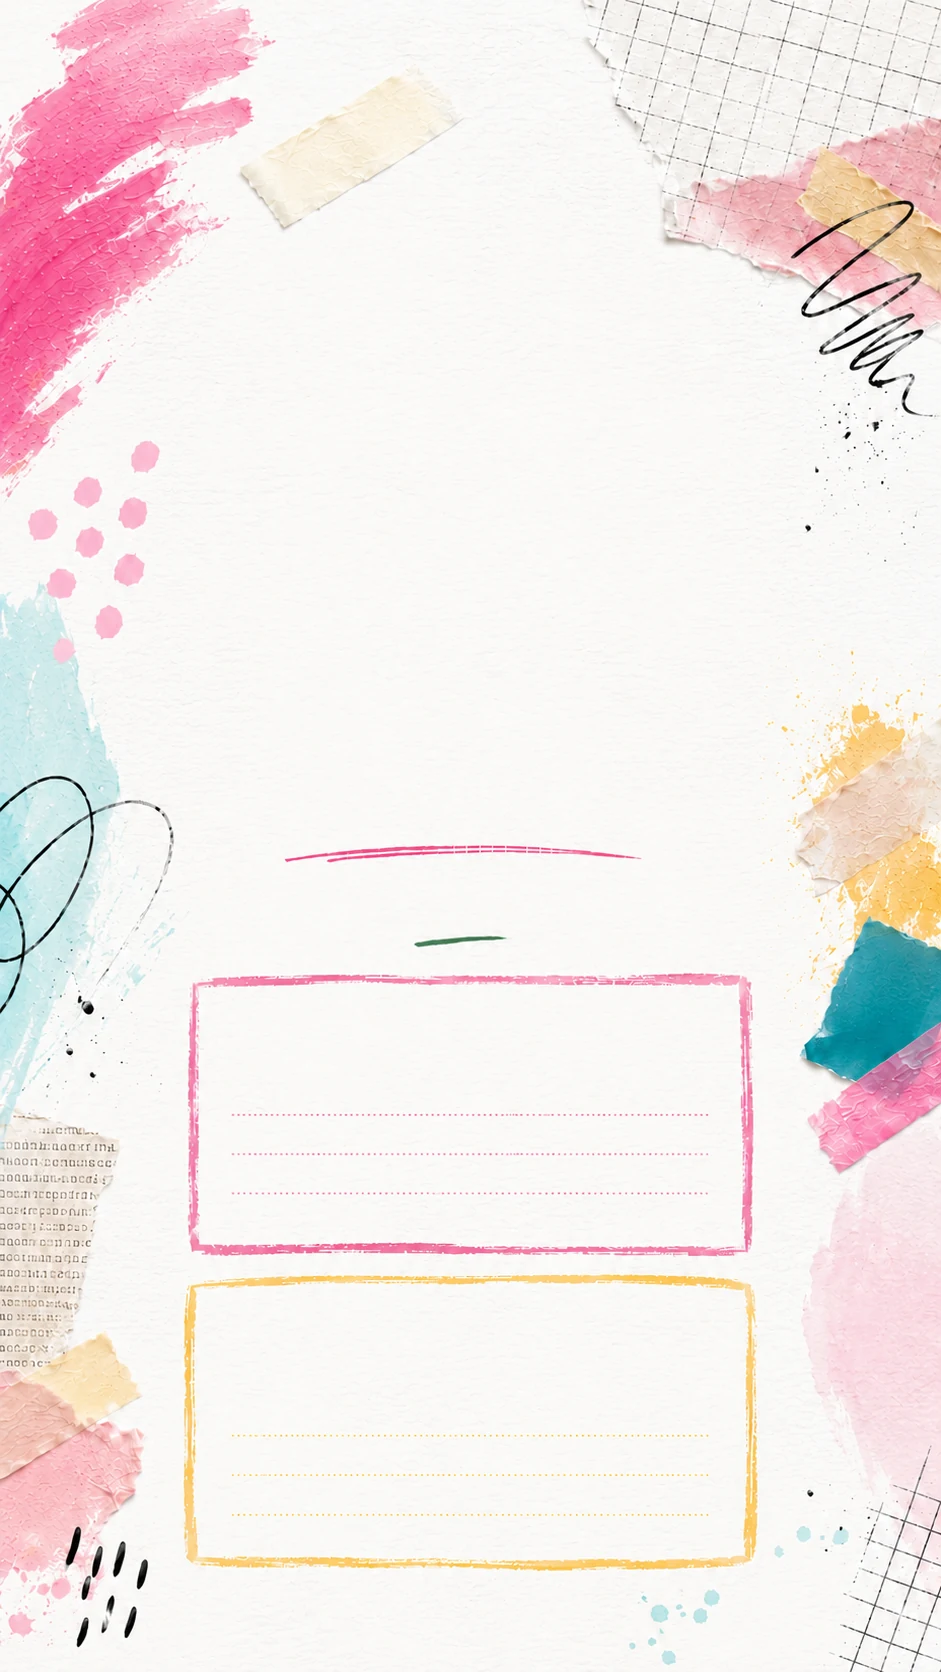
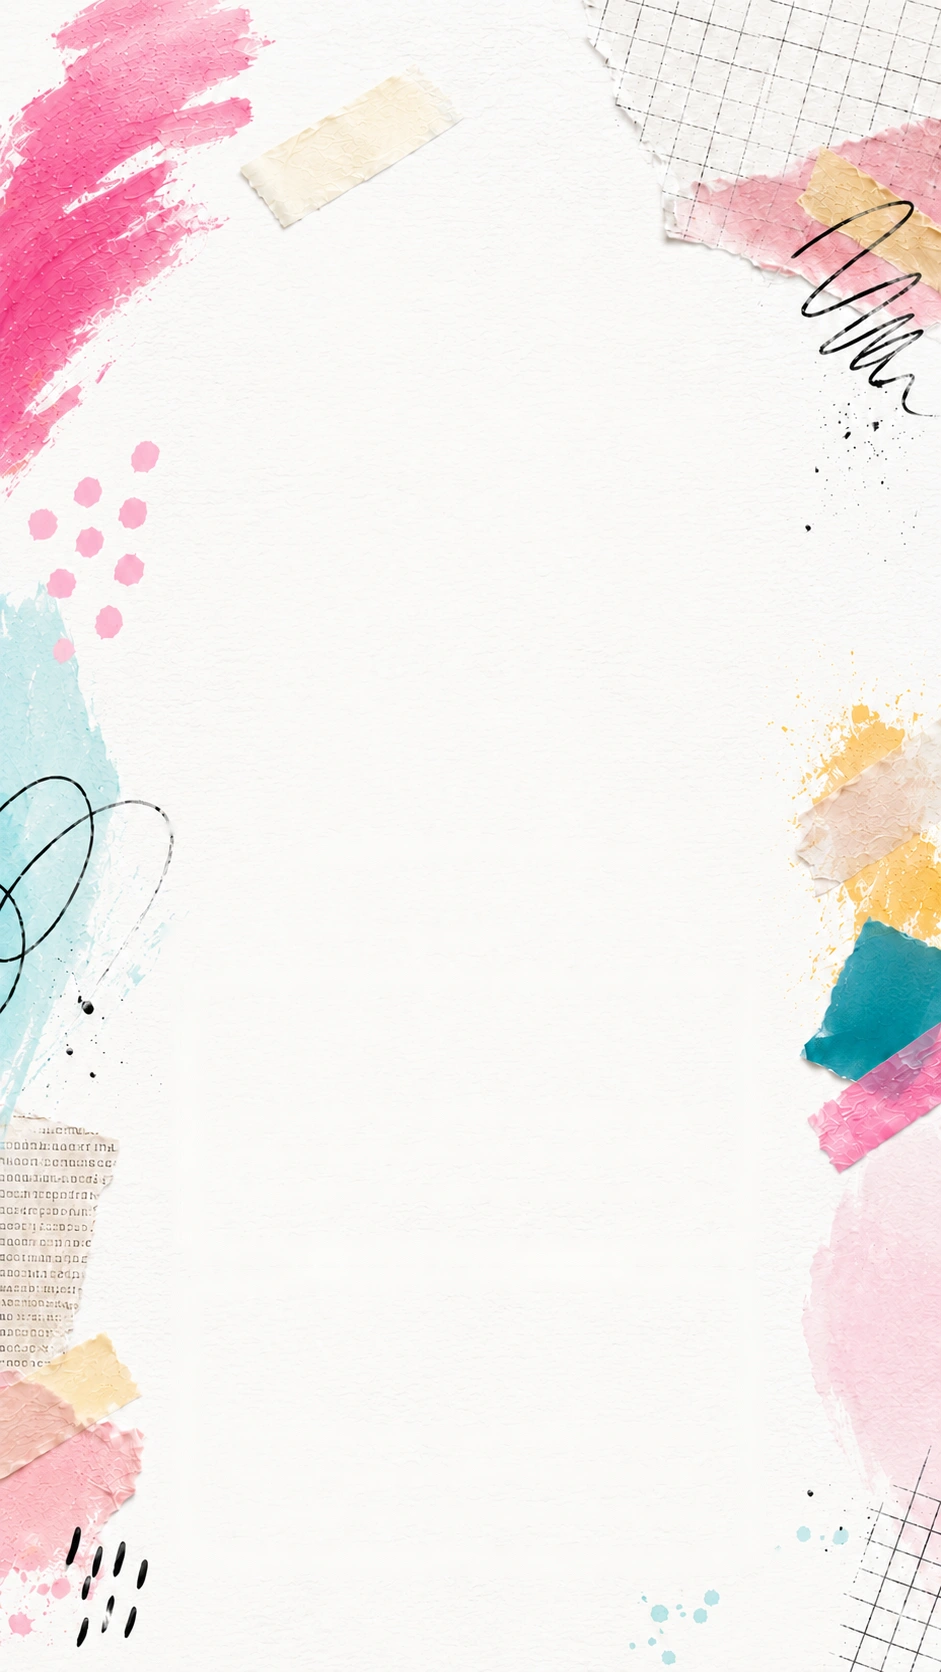
JOY Diary v0.14 polish fixes
2ページ目の改行と文章変更
「この意図は〜」を水平表示
背景画像に描かれていた2つの入力枠を撤去
Journey画像を縦横比を崩さず表示
4ページ以降の背景からハートを撤去
日々のタイトルから「、」「。」を削除
48ページ目の右半分が切れる問題を修正
本棚を、日付だけが書かれたシンプルな45冊へ変更
キャッシュをv14へ更新

Changed region(s): [[0.1849, 0.5598, 0.8321, 0.933], [0.2157, 0.933, 0.7705, 0.9641], [0.339, 0.4976, 0.6164, 0.5287]]

diff --git a/index.html b/index.html
@@ -4,8 +4,8 @@
 <meta charset="utf-8">
 <meta name="viewport" content="width=device-width,initial-scale=1,viewport-fit=cover">
 <meta name="theme-color" content="#f4eee4">
-<link rel="manifest" href="./manifest.webmanifest?v=v12">
-<title>JOY Diary · v0.13</title>
+<link rel="manifest" href="./manifest.webmanifest?v=v14">
+<title>JOY Diary · v0.14</title>
 <style>
 :root{
   --paper:#fffaf1;--paper-deep:#f5ecdf;--ink:#342d27;--muted:#786f66;
@@ -430,7 +430,7 @@ textarea:focus{border-color:var(--coral);background:linear-gradient(180deg,rgba(
 }
 
 
-/* v0.13 — Root-path cache fix */
+/* v0.14 — polish and layout fixes */
 :root{--paper:#fff;--paper-deep:#f7f3ee;--pink:#ef4f91;--mint:#75cbb9;--gold:#f5b72f;--ink:#332d2a}
 body{background:#ece8e2}
 .app{padding:0 0 88px}
@@ -440,10 +440,10 @@ body{background:#ece8e2}
 .page{min-height:760px;padding:0;background-color:#fff;background-repeat:no-repeat;background-position:top center;background-size:100% auto;overflow:hidden}
 .spread{display:grid;grid-template-columns:1fr;gap:24px;min-height:0}
 .left,.right{padding:0}
-.cover-page{position:relative;aspect-ratio:9/16;background-image:url('./assets/ui/cover.webp?v=13');background-size:cover;background-position:center}
+.cover-page{position:relative;aspect-ratio:9/16;background-image:url('./assets/ui/cover.webp?v=14');background-size:cover;background-position:center}
 .cover-action{position:absolute;left:50%;bottom:5.6%;transform:translateX(-50%);z-index:3}
 .cover-start{min-width:190px;background:rgba(255,255,255,.9);border:2px solid #ef4f91;color:#d93378;font-weight:700;box-shadow:0 8px 22px rgba(86,44,58,.16)}
-.opening-page{background-image:url('./assets/ui/opening.webp?v=13');background-size:100% 100%;min-height:995px}
+.opening-page{background-image:url('./assets/ui/opening.webp?v=14');background-size:100% 100%;min-height:995px}
 .opening-content{padding:105px 38px 55px;display:flex;flex-direction:column;min-height:995px}
 .opening-copy-block{text-align:center;max-width:430px;margin:0 auto}
 .opening-copy-block h2{font-size:34px;color:#cf2f70;line-height:1.42;margin-bottom:18px}
@@ -456,16 +456,16 @@ body{background:#ece8e2}
 .art-field-pink{border:2px solid rgba(235,90,145,.75)}
 .art-field-yellow{border:2px solid rgba(238,179,48,.78)}
 .opening-start{justify-self:center;margin-top:2px}
-.journey-page{position:relative;min-height:2600px;background-image:url('./assets/ui/journey-center.webp?v=13');background-size:100% 100%;background-position:center}
+.journey-page{position:relative;min-height:2600px;background-image:url('./assets/ui/journey-center.webp?v=14');background-size:100% 100%;background-position:center}
 .journey-page:before,.journey-page:after{content:'';position:absolute;left:0;right:0;z-index:0;background-repeat:no-repeat;background-size:100% 100%;pointer-events:none}
-.journey-page:before{top:0;height:255px;background-image:url('./assets/ui/journey-top.webp?v=13')}
-.journey-page:after{bottom:0;height:185px;background-image:url('./assets/ui/journey-bottom.webp?v=13')}
+.journey-page:before{top:0;height:255px;background-image:url('./assets/ui/journey-top.webp?v=14')}
+.journey-page:after{bottom:0;height:185px;background-image:url('./assets/ui/journey-bottom.webp?v=14')}
 .journey-wrap{position:relative;z-index:1;padding:150px 38px 240px;max-width:500px}
 .journey-wrap h2{font-size:36px;color:#d63678}
 .progress-card,.stop{background:rgba(255,255,255,.82);backdrop-filter:blur(2px)}
 .progress-card{border-radius:18px}
 .stop{padding-top:8px;padding-right:10px;border-radius:0 14px 14px 0}
-.daily-page{background-image:url('./assets/ui/daily.webp?v=13');background-size:100% 100%;min-height:1120px}
+.daily-page{background-image:url('./assets/ui/daily.webp?v=14');background-size:100% 100%;min-height:1120px}
 .daily-spread{padding:62px 34px 70px}
 .daily-heading{text-align:center;margin-bottom:18px}
 .daily-title{font-size:34px;color:#d63678}
@@ -473,7 +473,7 @@ body{background:#ece8e2}
 .daily-field,.little-card{background:rgba(255,255,255,.78);backdrop-filter:blur(2px);border:1px solid rgba(225,108,147,.18);border-radius:18px;padding:16px 18px}
 .daily-field textarea{min-height:105px}
 .little-card{margin-top:2px}
-.final-page{background-image:url('./assets/ui/daily.webp?v=13');background-size:100% 100%;min-height:1080px}
+.final-page{background-image:url('./assets/ui/daily.webp?v=14');background-size:100% 100%;min-height:1080px}
 .final-layout{padding:62px 34px 72px;display:grid;gap:28px}
 .final-copy,.final-question{background:rgba(255,255,255,.78);backdrop-filter:blur(2px);border-radius:22px;padding:22px}
 .final-question{text-align:center}
@@ -496,6 +496,33 @@ body{background:#ece8e2}
 @media(min-width:761px){.app{padding-top:18px}.top{border-radius:14px 14px 0 0}.book{border-radius:0 0 20px 20px}.page{min-height:880px}.cover-page{min-height:auto}}
 @media(max-width:420px){.opening-content{padding:85px 24px 40px}.opening-copy-block h2{font-size:29px}.opening-copy-block .body{font-size:12px}.journey-wrap{padding-left:26px;padding-right:26px}.daily-spread,.final-layout{padding-left:22px;padding-right:22px}}
 
+
+/* v0.14 feedback fixes */
+.opening-copy-block .note{transform:none!important;font-style:normal!important;display:block}
+.opening-page{background-size:100% auto;min-height:995px}
+.journey-page{
+  background-size:100% auto;
+  background-repeat:repeat-y;
+  background-position:top center;
+}
+.journey-page:before,.journey-page:after{width:100%;height:auto;background-size:100% auto}
+.journey-page:before{aspect-ratio:989/453}
+.journey-page:after{aspect-ratio:990/326}
+.daily-page,.final-page{background-size:100% auto;background-repeat:repeat-y}
+.final-layout{grid-template-columns:minmax(0,1fr)!important;width:100%;max-width:100%;overflow:visible}
+.final-copy,.final-question,.intention-echo,.intention-echo .quote{min-width:0;max-width:100%;overflow-wrap:anywhere;word-break:normal}
+.library-art{overflow:visible;background:transparent}
+.simple-shelf{display:grid;grid-template-columns:repeat(5,minmax(0,1fr));gap:14px 10px;padding:10px 4px 18px}
+.simple-book{
+  position:relative;aspect-ratio:3/4.15;border:0;border-radius:4px 10px 10px 4px;
+  background:linear-gradient(90deg,rgba(77,61,51,.14) 0 8%,rgba(255,255,255,.15) 8% 10%,#f4eee5 10% 100%);
+  box-shadow:3px 5px 10px rgba(55,42,31,.13);display:grid;place-items:center;padding:4px;
+}
+.simple-book:after{content:'';position:absolute;inset:7px 6px 7px 10px;border:1px solid rgba(70,56,46,.12);border-radius:2px 7px 7px 2px;pointer-events:none}
+.simple-book span{font-family:Georgia,'Times New Roman',serif;font-size:clamp(12px,3vw,17px);letter-spacing:.02em;color:#49413b;margin:0}
+.simple-book:hover,.simple-book:focus-visible{transform:translateY(-2px);outline:2px solid rgba(239,79,145,.52);outline-offset:2px}
+@media(max-width:420px){.simple-shelf{gap:10px 7px}.simple-book span{font-size:12px}}
+
 </style>
 </head>
 <body>
@@ -513,12 +540,12 @@ body{background:#ece8e2}
   </main>
 </div>
 
-<div class="overlay" id="shelfOverlay"><div class="panel library-panel"><div class="phead"><h3>あなたの本棚</h3><button class="round close">×</button></div><p class="shelf-intro">45日分の小さなアートブック。読みたい一冊をタップしてください。</p><div class="library-art" id="shelf" aria-label="45日分の本棚"></div></div></div>
+<div class="overlay" id="shelfOverlay"><div class="panel library-panel"><div class="phead"><h3>あなたの本棚</h3><button class="round close">×</button></div><p class="shelf-intro">日付だけを記した45冊。開きたい日をタップしてください。</p><div class="library-art" id="shelf" aria-label="45日分の本棚"></div></div></div>
 <div class="overlay" id="settingsOverlay"><div class="panel" style="max-width:560px"><div class="phead"><h3>設定</h3><button class="round close">×</button></div><div class="settings"><div class="badge">REVIEW MODE · 全ページ開放</div><label>プレビュー日</label><input type="date" id="previewDate"><p class="body">レビュー版では、すべてのページを開けます。プレビュー日を変えると、その日を「今日」としてJourneyの現在地を確認できます。</p></div><div class="settings"><button class="pill" id="reset">この端末の入力をリセット</button></div></div></div>
 <div class="toast" id="toast">受け取りました。</div>
 
 <script>
-const VERSION="20260730-v12";
+const VERSION="20260730-v14";
 const START=new Date("2026-07-31T00:00:00");
 const END=new Date("2026-09-12T23:59:59");
 const prompts=[
@@ -565,8 +592,8 @@ return `<article class="page opening-page">
     <div class="opening-copy-block">
       <div class="eyebrow">OPENING INTENTION</div>
       <h2>この旅の始まりに、<br>意図を置く。</h2>
-      <p class="body">前回のJOY Meetingで決めた意図を、ここに書き込んでみましょう。</p>
-      <p class="body">このプログラムは、あなたが<strong>意図的創造者として生きる習慣</strong>を育てていくためです。<br>フィーリングをゴールに歩んでいきましょう。</p>
+      <p class="body">前回のJOY Meetingで決めた意図を、<br>ここに書き込んでみましょう。</p>
+      <p class="body">ここでは、あなたが<strong>意図的創造者として生きること</strong>をサポートします。<br>フィーリングをゴールに歩んでいきましょう。</p>
       <p class="note">この意図は、旅の途中でいつでも書き直せます。</p>
     </div>
     <div class="opening-fields">
@@ -607,7 +634,7 @@ function journey(){
     </div>
     <div class="timeline">
       <div class="chapter">PREPARATION</div>
-      ${stop("2026-07-31","7月31日","準備を楽しむ、最後の1日。","「まだ始まっていない」を体験できる、最後の日。")}
+      ${stop("2026-07-31","7月31日","準備を楽しむ最後の1日","「まだ始まっていない」を体験できる、最後の日。")}
 
       <div class="chapter">JOY RETREAT</div>
       ${stop("2026-08-01","8月1日 · DAY 1","委ねて味わうを体験する1日")}
@@ -621,8 +648,8 @@ function journey(){
       ${stop("2026-08-08","8月8日","JOY Meeting②","リトリートから1週間。<br>今感じている震えと気づきを受け取る日。","meeting")}
 
       <div class="chapter">JOY IN EVERYDAY LIFE</div>
-      ${stop("2026-08-09","8月9日〜","JOYを、日常に育てる。","リトリートで受け取った心地よさを、日常の中でさらに育てていく。")}
-      ${stop("2026-09-12","9月12日","今思う、あなたにとっての人生とは？","この旅の今を、自分の言葉で受け取る日。","meeting")}
+      ${stop("2026-08-09","8月9日〜","JOYを日常に育てる","リトリートで受け取った心地よさを、日常の中でさらに育てていく。")}
+      ${stop("2026-09-12","9月12日","今思うあなたにとっての人生とは？","この旅の今を、自分の言葉で受け取る日。","meeting")}
     </div>
   </div></article>`}
 
@@ -630,12 +657,12 @@ function daily(d,i){
   const ds=localDateKey(d),k="d_"+ds;
   const date=`${d.getMonth()+1}月${d.getDate()}日`;
 
-  let title="JOYを、日常に育てる。";
+  let title="JOYを日常に育てる";
   let subtitle="";
   let story="";
 
   if(ds==="2026-07-31"){
-    title="準備を楽しむ、最後の1日。";
+    title="準備を楽しむ最後の1日";
     story=`<div class="daily-story">
       <p>明日から、JOY RETREATが始まります。</p>
       <p><b>今日が、「まだ始まっていない」を体験できる、最後の日です。</b></p>
@@ -661,7 +688,7 @@ function daily(d,i){
     title="JOY Meeting②";
     subtitle="リトリートから1週間。今感じている震えと気づきを受け取る日";
   } else if(ds==="2026-09-12"){
-    title="今思う、あなたにとっての人生とは？";
+    title="今思うあなたにとっての人生とは？";
   }
 
   return `<article class="page daily-page" data-date="${ds}"><div class="spread daily-spread">
@@ -669,7 +696,7 @@ function daily(d,i){
       <div class="daily-heading">
         <div class="daily-date">${date}</div>
         <div class="daily-kicker">TODAY'S JOURNEY</div>
-        <h2 class="daily-title">${title}</h2>
+        <h2 class="daily-title">${title.replace(/[、。]/g,"")}</h2>
         ${subtitle?`<p class="daily-subtitle">${subtitle}</p>`:""}
       </div>
       ${story}
@@ -695,7 +722,7 @@ function daily(d,i){
 
 function finalPage(){
 return `<article class="page final-page"><div class="final-layout">
-  <div class="final-copy"><div class="eyebrow">THE JOURNEY CONTINUES</div><h2>旅の入口に置いた、<br>あなたの意図。</h2>
+  <div class="final-copy"><div class="eyebrow">THE JOURNEY CONTINUES</div><h2>旅の入口に置いた<br>あなたの意図</h2>
     <div class="intention-echo">
       <div class="eyebrow">FROM YOUR OPENING INTENTION</div>
       <div class="quote">${esc(state.open1)||"ここに、旅のはじまりに置いた、あなたの言葉が戻ってきます。"}</div>
@@ -708,9 +735,9 @@ return `<article class="page final-page"><div class="final-layout">
   <div class="final-question"><div class="eyebrow">FINAL QUESTION</div>
     <h2 class="final-question-title">今思う、<br>あなたにとっての人生とは？</h2>
     <div class="field">${field("final","今のあなたの言葉で。")}</div>
-    <button class="pill dark" id="meetYourself">この私に、会いに行く。</button>
+    <button class="pill dark" id="meetYourself">この私に会いに行く</button>
     <div class="lovely-reveal" id="lovelyReveal" aria-live="polite">
-      <img src="./assets/ui/lovely-final.webp?v=13" alt="絵筆を持ったラブリーくん">
+      <img src="./assets/ui/lovely-final.webp?v=14" alt="絵筆を持ったラブリーくん">
       <p>おかえり。</p>
     </div>
   </div>
@@ -758,21 +785,22 @@ function show(i){
 }
 function shelfBuild(){
   const dailyPages=[...document.querySelectorAll('.page[data-date]')];
-  shelf.innerHTML=`<img src="./assets/ui/library.webp?v=13" alt="45冊のアートブックが並ぶ本棚"><div class="library-hotspots"></div>`;
-  const hotspots=shelf.querySelector('.library-hotspots');
+  shelf.innerHTML='<div class="simple-shelf" aria-label="45日分の本棚"></div>';
+  const grid=shelf.querySelector('.simple-shelf');
   dailyPages.forEach((page,i)=>{
+    const ds=page.dataset.date;
+    const [,m,d]=ds.split('-').map(Number);
     const b=document.createElement('button');
     b.type='button';
-    b.className='library-hotspot';
-    b.setAttribute('aria-label',`${i+1}日目を開く`);
-    b.style.setProperty('--col',i%5);
-    b.style.setProperty('--row',Math.floor(i/5));
+    b.className='simple-book';
+    b.innerHTML=`<span>${m}/${d}</span>`;
+    b.setAttribute('aria-label',`${m}月${d}日を開く`);
     b.addEventListener('click',()=>{
       const index=[...document.querySelectorAll('.page')].indexOf(page);
       show(index);
       shelfOverlay.classList.remove('open');
     });
-    hotspots.appendChild(b);
+    grid.appendChild(b);
   });
 }
 prev.onclick=()=>show(current-1);
@@ -783,7 +811,7 @@ document.querySelectorAll(".close").forEach(b=>b.onclick=()=>b.closest(".overlay
 previewDate.onchange=()=>{build();show(Math.min(current,max()))};
 reset.onclick=()=>{if(confirm("この端末に保存した入力をすべて消しますか？")){localStorage.removeItem(storageKey);localStorage.removeItem("joyPage_"+VERSION);location.reload()}};
 build();show(current);
-if("serviceWorker"in navigator)addEventListener("load",()=>navigator.serviceWorker.register("./sw.js?v=v13"));
+if("serviceWorker"in navigator)addEventListener("load",()=>navigator.serviceWorker.register("./sw.js?v=v14"));
 
 // v0.6 interactions
 function openCurrentToday(){

diff --git a/css/style.css b/css/style.css
@@ -135,3 +135,30 @@ dialog::backdrop{background:rgba(40,32,25,.4);backdrop-filter:blur(7px)}
   .art-panel{min-height:270px}
   .cover-copy{min-height:250px}
 }
+
+
+/* v0.14 feedback fixes */
+.opening-copy-block .note{transform:none!important;font-style:normal!important;display:block}
+.opening-page{background-size:100% auto;min-height:995px}
+.journey-page{
+  background-size:100% auto;
+  background-repeat:repeat-y;
+  background-position:top center;
+}
+.journey-page:before,.journey-page:after{width:100%;height:auto;background-size:100% auto}
+.journey-page:before{aspect-ratio:989/453}
+.journey-page:after{aspect-ratio:990/326}
+.daily-page,.final-page{background-size:100% auto;background-repeat:repeat-y}
+.final-layout{grid-template-columns:minmax(0,1fr)!important;width:100%;max-width:100%;overflow:visible}
+.final-copy,.final-question,.intention-echo,.intention-echo .quote{min-width:0;max-width:100%;overflow-wrap:anywhere;word-break:normal}
+.library-art{overflow:visible;background:transparent}
+.simple-shelf{display:grid;grid-template-columns:repeat(5,minmax(0,1fr));gap:14px 10px;padding:10px 4px 18px}
+.simple-book{
+  position:relative;aspect-ratio:3/4.15;border:0;border-radius:4px 10px 10px 4px;
+  background:linear-gradient(90deg,rgba(77,61,51,.14) 0 8%,rgba(255,255,255,.15) 8% 10%,#f4eee5 10% 100%);
+  box-shadow:3px 5px 10px rgba(55,42,31,.13);display:grid;place-items:center;padding:4px;
+}
+.simple-book:after{content:'';position:absolute;inset:7px 6px 7px 10px;border:1px solid rgba(70,56,46,.12);border-radius:2px 7px 7px 2px;pointer-events:none}
+.simple-book span{font-family:Georgia,'Times New Roman',serif;font-size:clamp(12px,3vw,17px);letter-spacing:.02em;color:#49413b;margin:0}
+.simple-book:hover,.simple-book:focus-visible{transform:translateY(-2px);outline:2px solid rgba(239,79,145,.52);outline-offset:2px}
+@media(max-width:420px){.simple-shelf{gap:10px 7px}.simple-book span{font-size:12px}}

diff --git a/sw.js b/sw.js
@@ -1,9 +1,9 @@
-const CACHE='joy-diary-v13-root-fix';
+const CACHE='joy-diary-v14-polish';
 const ASSETS=[
   './','./index.html','./manifest.webmanifest','./css/style.css','./js/app.js',
-  './assets/ui/cover.webp?v=13','./assets/ui/opening.webp?v=13',
-  './assets/ui/journey-top.webp?v=13','./assets/ui/journey-center.webp?v=13','./assets/ui/journey-bottom.webp?v=13',
-  './assets/ui/daily.webp?v=13','./assets/ui/library.webp?v=13','./assets/ui/lovely-final.webp?v=13'
+  './assets/ui/cover.webp?v=14','./assets/ui/opening.webp?v=14',
+  './assets/ui/journey-top.webp?v=14','./assets/ui/journey-center.webp?v=14','./assets/ui/journey-bottom.webp?v=14',
+  './assets/ui/daily.webp?v=14','./assets/ui/lovely-final.webp?v=14'
 ];
 self.addEventListener('install',event=>{
   self.skipWaiting();
